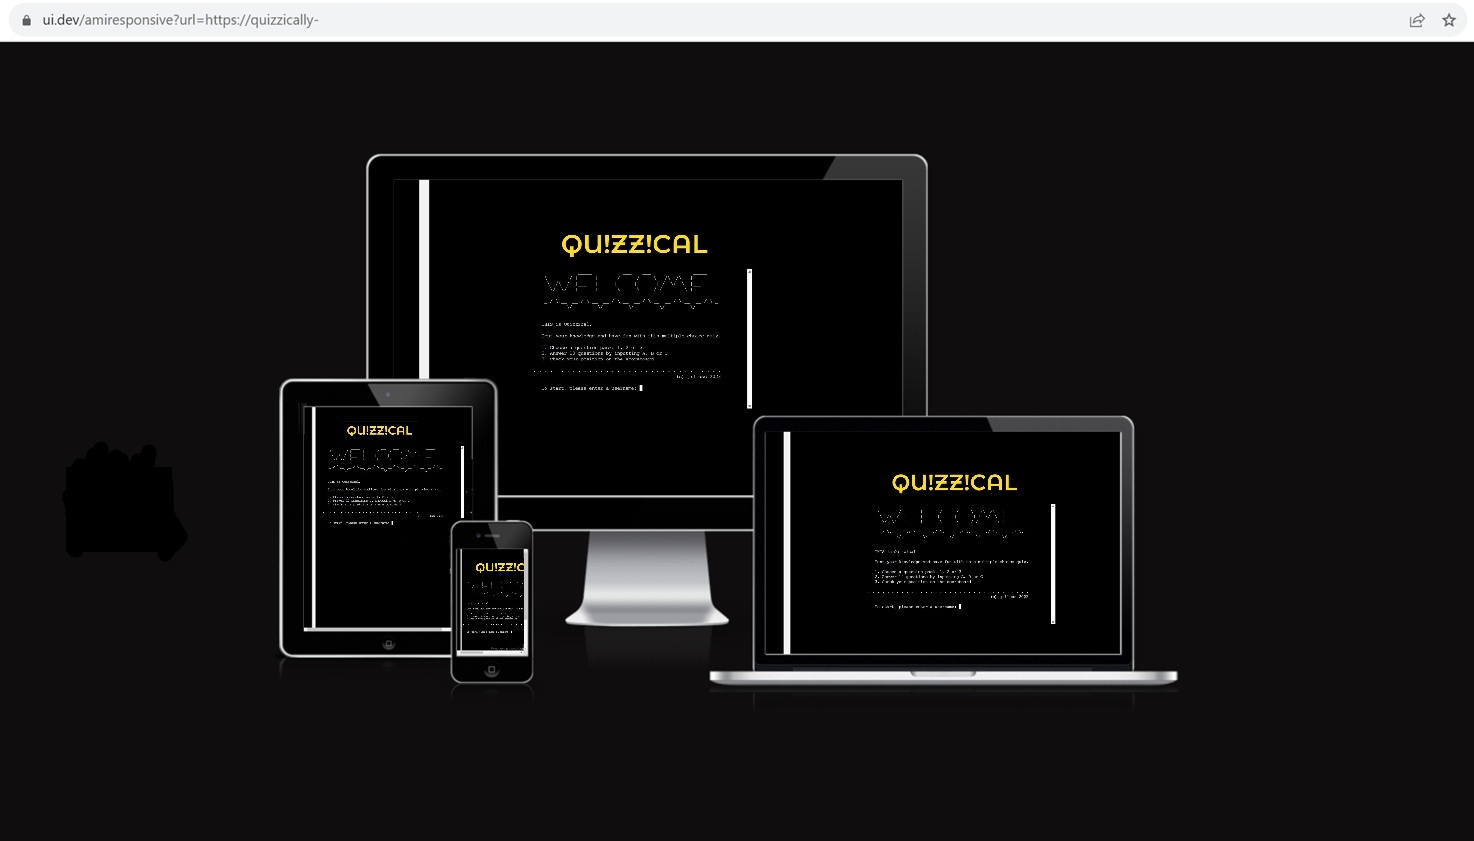
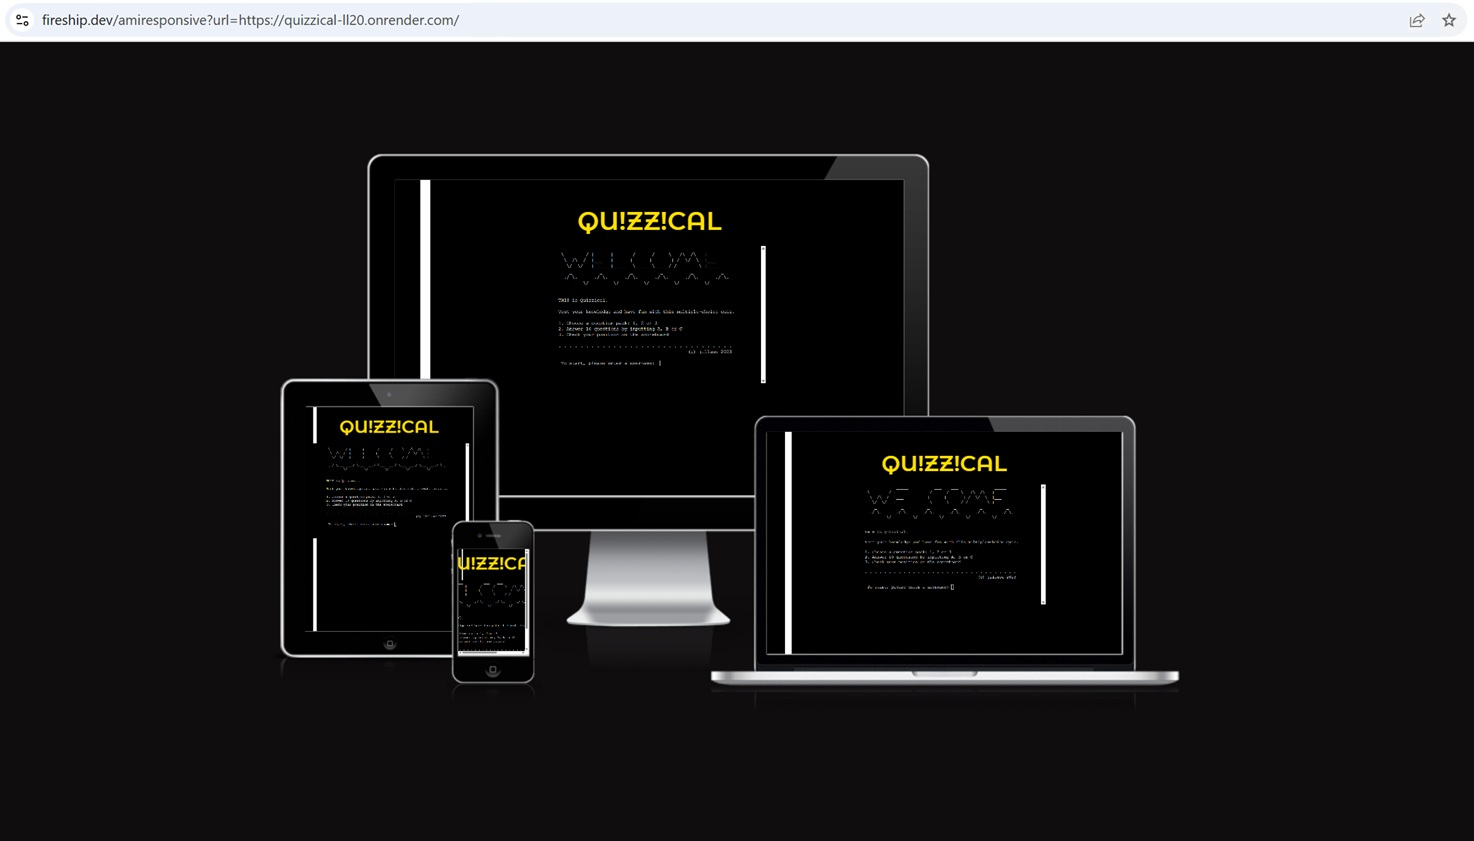
Completed new README

diff --git a/run.py b/run.py
@@ -216,7 +216,7 @@ def end_of_game(score, name):
 
             while True:
                 print()
-                show_scoreboard = input(f"{LEFT_MARGIN}Would you like to see the scoreboard? (Y/N): "
+                show_scoreboard = input(f"{LEFT_MARGIN}Would you like to see the leaderboard? (Y/N): "
                 ).upper()
 
                 if show_scoreboard == "Y":

diff --git a/README.md b/README.md
@@ -2,13 +2,13 @@
 
 Quizzical is a terminal-based multiple-choice quiz game written in Python.
 
-Players test their knowledge across three rounds of general knowledge questions, receive immediate feedback on their answers and have their scores recorded in a Google Sheets leaderboard.
+Players test their knowledge across three question packs of general knowledge questions, receive immediate feedback on their answers and have their scores recorded in a Google Sheets leaderboard.
 
 Originally created as a study project in 2023, Quizzical has since been updated to run locally using a modern Node.js environment while preserving the original gameplay and Google Sheets integration.
 
 ![Responsive preview](README%20documentation/quizzical-amiresponsive.jpg)
 
----
+The live app can be viewed here: <a href="https://quizzical-ll20.onrender.com/">QU!ZZ!CAL</a>
 
 ## How it works
 
@@ -22,51 +22,45 @@ After each answer, feedback is given. Incorrect answers do not reveal the correc
 
 At the end of the game, the player's score is stored in a Google Sheets database. The player can then view a leaderboard displaying the five highest scores.
 
----
-
 ## Features
 
 ### Current features
 
-- Welcome screen with title graphic.
+- Welcome screen with title graphic and game instructions:
 
-![Welcome screen](README%20documentation/quizzical-screen1.webp)
+![Welcome screen](README%20documentation/welcome_screen.jpg)
 
-- Username entry with input validation.
-- Comprehensive error handling for invalid input.
+- Username entry with input validation and clear error messages:
 
-![Validation](README documentation/quizzical error handling.webp)
+  ![Validation](README%20documentation/quizzical_error_handling.webp)
 
-- Selection of three different question packs.
+- Selection of three different question packs:
 
-![Question packs](README documentation/quizzical-screen2.webp)
+  ![Question pack selection](README%20documentation/Q_pack_selection.jpg)
 
-- Questions are randomly shuffled each time a pack is played.
-- Ten multiple-choice questions per round.
-- Immediate feedback after each answer.
+- Questions are randomly shuffled each time a pack is played
 
-![Gameplay](README documentation/quizzical-screen3.webp)
+- Ten multiple-choice questions per pack
 
-- Score displayed at the end of each round.
-- Option to continue playing another question pack.
+- Immediate feedback after each answer:
 
-![Play again](README documentation/quizzical-screen3b.webp)
+![Gameplay](README%20documentation/questions.jpg)
 
-- Game over screen with optional leaderboard.
+- Score displayed at the end of each round
 
-![Game over](README documentation/quizzical-screen4.webp)
+- Option to continue playing another question pack
 
-- Top five leaderboard stored in Google Sheets.
+- Game over screen with option to view leaderboard:
 
-![Leaderboard](README documentation/quizzical-screen5.webp)
+![End of game](README%20documentation/end_of_game.jpg)
 
-- Google Sheets integration using the **gspread** library.
-- Scoreboard displayed in the terminal using the **tabulate** library.
+- Top five leaderboard stored in Google Sheets:
 
-Google Sheet:
-https://docs.google.com/spreadsheets/d/14aBiAc2JxeRauvC3_H2hoN2Nm3y-RgxoWKx92Rbr--I/edit?usp=sharing
+![Leaderboard](README%20documentation/leaderboard.jpg)
 
----
+- Integration with Google Sheets using the gspread library
+
+- Leaderboard displayed in the terminal using the **tabulate** library.
 
 ## Technologies
 
@@ -76,8 +70,6 @@ https://docs.google.com/spreadsheets/d/14aBiAc2JxeRauvC3_H2hoN2Nm3y-RgxoWKx92Rbr
 - Google Sheets API
 - gspread
 - tabulate
-
----
 
 ## Running locally
 
@@ -113,36 +105,30 @@ The application will then be available at:
 http://localhost:8000
 ```
 
----
-
 ## Future improvements
 
-- Allow players to accumulate a total score across all three question packs.
-- Display each question on a freshly cleared terminal.
-- Calculate and display scores as percentages.
-- Prevent duplicate usernames.
-- Add additional themed question packs.
+- Allow players to accumulate a total score across all three question packs
+- Display each question in a freshly cleared terminal
+- Calculate and display scores as percentages
+- Prevent duplicate usernames
+- Add additional themed question packs
 - Randomise the answer order as well as the questions.
-
----
 
 ## Design
 
 The interface was intentionally kept clean and uncluttered to resemble a traditional terminal application.
 
-- Black background with a centred terminal.
-- Gold title text for contrast.
-- Google Font used for the title.
+- Black background with a centred terminal
+- Gold title text for contrast
+- Google Font used for the title text
 - Subtle vertical stripe added to balance the page visually alongside the scrollbar.
-
----
 
 ## Testing
 
 ### Bugs resolved
 
-- Long questions wrapped awkwardly in the terminal and were reformatted.
-- Scoreboard updates were corrected by ensuring scores are written before being displayed.
+- Long questions wrapped awkwardly in the terminal and were reformatted
+- Scoreboard updates were corrected by ensuring scores are written to Google Sheets before being displayed
 - Screen clearing was adjusted so that important messages remain visible long enough to be read.
 
 ### Known limitations
@@ -151,17 +137,15 @@ The first three items listed under **Future improvements** remain planned enhanc
 
 ### Validation
 
-The Python code passes linting without errors.
+The Python code passes linting without errors:
 
-![Linter](README documentation/python-linter-pass.webp)
-
----
+![Linter](README%20documentation/python-linter-pass.webp)
 
 ## Credits
 
 ### Resources
 
-- Code Institute's original terminal project.
+- Code Institute's original terminal application project
 - Google Sheets API
 - gspread
 - tabulate
